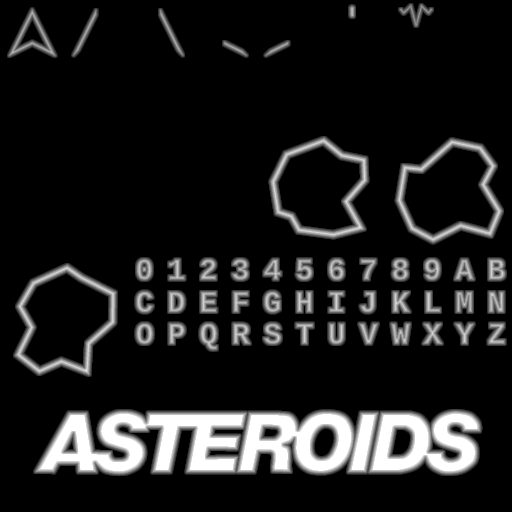
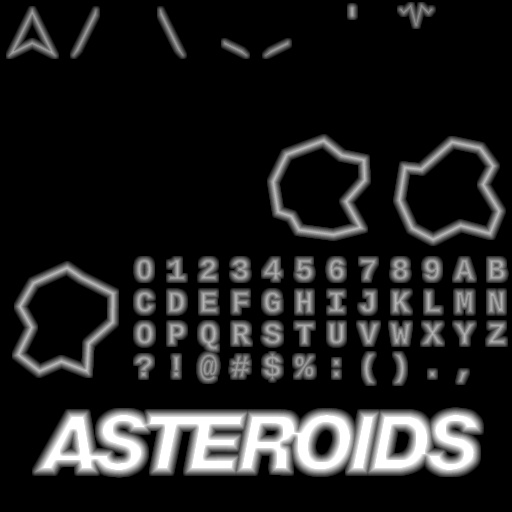
updated readme and the title screen, added more font chars to the sprite sheet. Also added the ability to change the font size better

diff --git a/src/Renderer.java b/src/Renderer.java
@@ -153,16 +153,16 @@ class Renderer implements GLEventListener {
 				
 				drawAsteroids(gl);
 				drawParts(gl);
-				drawString("GAME OVER", 0, 0, gl);
+				drawString("GAME OVER", 0, 0, 30, gl);
 				break;
 				
 			case PLAY_AGAIN:
 				
 				drawAsteroids(gl);
 				drawParts(gl);
-				drawString("GAME OVER", 0, 0, gl);
-				drawString("PRESS ANY KEY", 0, 100, gl);
-				drawString("TO PLAY AGAIN", 0, 120, gl);
+				drawString("GAME OVER", 0, 0, 30, gl);
+				drawString("PRESS ANY KEY", 0, 100, 22, gl);
+				drawString("TO PLAY AGAIN", 0, 120, 22, gl);
 				break;
 		}
 	}
@@ -284,7 +284,7 @@ class Renderer implements GLEventListener {
 		
 		String str = String.format("%06d", score);
 		int yPos = (height / 2) - 15;	
-		drawString(str, 0, -yPos, gl);	
+		drawString(str, 0, -yPos, 22, gl);	
 	}
 	
 	public void drawBullets(GL3 gl) {
@@ -419,7 +419,8 @@ class Renderer implements GLEventListener {
 			
 		} else {
 			
-			drawString("PRESS SPACE TO START", 0, 150, gl);
+			drawString("PRESS SPACE TO START", 0, 150, 22, gl);
+			drawString("2020: JOSHUA LAMBERT", 0, 200, 15, gl);
 		}
 		
 		drawGameObject(gl, title);
@@ -465,9 +466,10 @@ class Renderer implements GLEventListener {
 		}
 	}
 	
-	public void drawString(String str, int x, int y, GL3 gl) {
+	public void drawString(String str, int x, int y, int size, GL3 gl) {
 
 		TextChar tc = new TextChar();
+		tc.sprite.setScale(size);
 		
 		int pxLen = str.length() * (int) tc.sprite.scale[0] * 2;
 		x = -pxLen / 2 + (int) tc.sprite.scale[0];
@@ -479,7 +481,7 @@ class Renderer implements GLEventListener {
 			int index = charIndex + offset + (charIndex / 12) * 4;
 			tc.sprite.setIndex(index);
 			tc.sprite.setSize(32, 32);
-			tc.sprite.setPosition(x + i * tc.sprite.scale[1] * 2, y);
+			tc.sprite.setPosition(x + i * tc.sprite.scale[0] * 2, y);
 			drawGameObject(gl, tc);
 		}
 	}

diff --git a/src/TextChar.java b/src/TextChar.java
@@ -5,7 +5,7 @@ public class TextChar extends GameObject {
 	
 	public TextChar() {
 		
-		this.fontLayout = "0123456789ABCDEFGHIJKLMNOPQRSTUVWXYZ ";
+		this.fontLayout = "0123456789ABCDEFGHIJKLMNOPQRSTUVWXYZ?!@#$%:()., ";
 		this.sprite = new Sprite2D(512, 512);
 		this.sprite.setScale(22);
 	}

diff --git a/README.md b/README.md
@@ -11,13 +11,11 @@ can be found at https://jogamp.org/deployment/v2.3.2/archive/jogamp-all-platform
 
 Compilation instructions on a linux system are as follows... (browse to the src directory)
 
-	$ javac -cp .:path_to_jogl/jar/jogl-all.jar:path_to_jogl/jar/gluegen-rt.jar 
-	$ Sprite2D.java GameObject.java Ship.java Parts.java Bullet.java AsteroidsJOGL.java Asteroid.java Renderer.java TextChar.java Matrix.java
+	$ javac -cp .:path_to_jogl/jar/jogl-all.jar:path_to_jogl/jar/gluegen-rt.jar Sprite2D.java GameObject.java Ship.java Parts.java Bullet.java AsteroidsJOGL.java Asteroid.java Renderer.java TextChar.java Matrix.java
 
 that should compile all necessary .java files. to run the program type the command
 
-	$ java cp .:path_to/jogl/jar/jogl-all.jar:path_to/jogl/jar/gluegen-rt.jar 
-	$ AsteroidsJOGL
+	$ java -cp .:path_to/jogl/jar/jogl-all.jar:path_to/jogl/jar/gluegen-rt.jar AsteroidsJOGL
 
 ## Images 
 ![Imgur](https://i.imgur.com/IIyCII3.gif)
